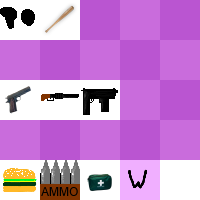
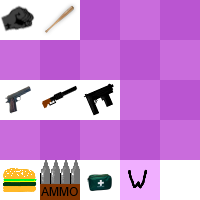
General update, see details
-Better graphics (weapon icons)
-Settings bug where ENGLISH wasn't default

Changed region(s): [[0.18, 0.42, 0.6, 0.6], [0.0, 0.03, 0.18, 0.15]]

diff --git a/src/model/save/SettingsModel.java b/src/model/save/SettingsModel.java
@@ -130,7 +130,7 @@ public class SettingsModel {
 		private static void setDefaultSettings() {
 			name = "Player 1";
 			fullscreen = true;
-			locale = Locale.getDefault();
+			locale = Locale.ENGLISH;
 		}	
 		private static void write() {
 			try {				 			
